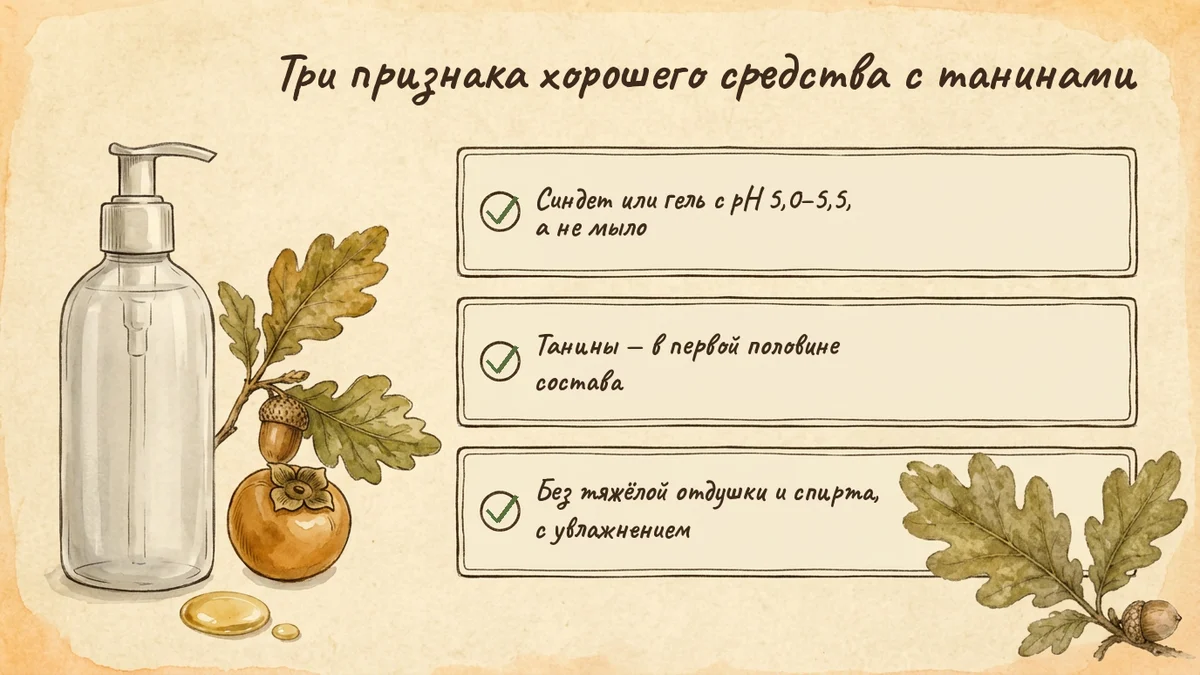
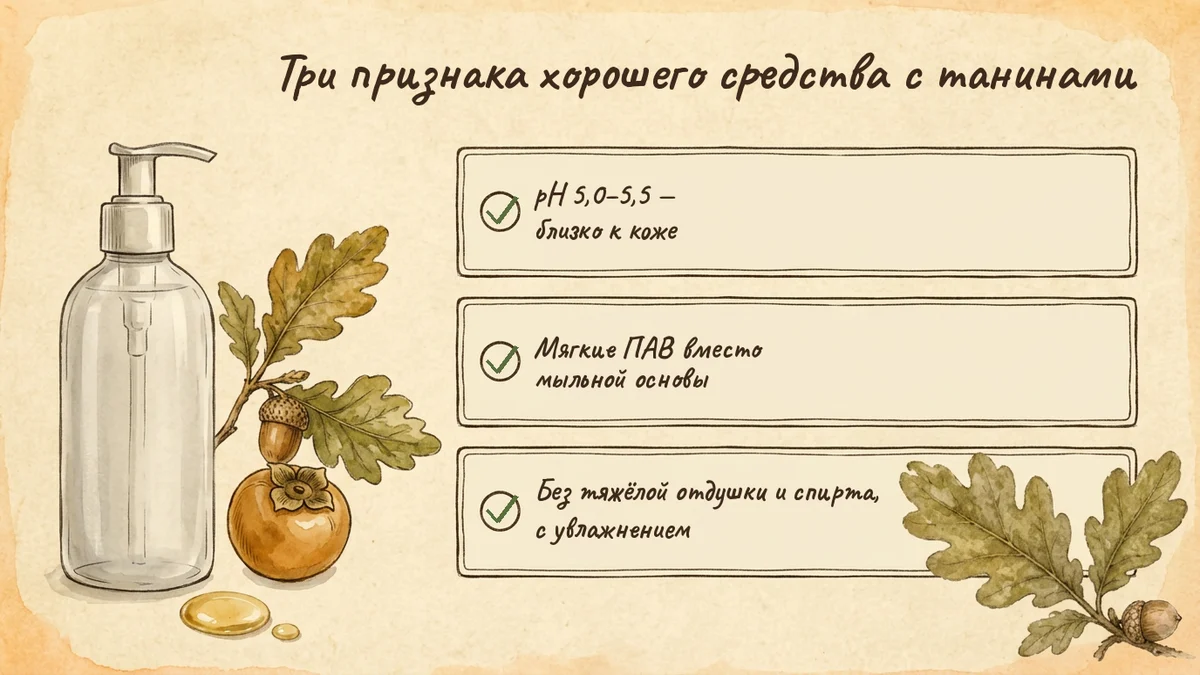
Картинка «Три признака»: pH 5,0–5,5; мягкие ПАВ вместо мыльной основы; без отдушки и спирта

Changed region(s): [[0.4317, 0.4978, 0.7092, 0.5911], [0.4317, 0.28, 0.7092, 0.3733]]

diff --git a/03-сайт/черновики/mylo-s-hurmoj/index.html b/03-сайт/черновики/mylo-s-hurmoj/index.html
@@ -264,7 +264,7 @@
 <li><strong>Танины в первой половине списка.</strong> Подойдёт не только хурма (<em>Diospyros Kaki Fruit Extract</em>). Танины коры дуба (<em>Quercus Robur Bark Extract</em>) относятся к тому же классу и давно применяются в медицине как вяжущее средство.</li>
 <li><strong>Без тяжёлой отдушки и спирта, с увлажняющими компонентами</strong> (<em>Glycerin, Panthenol, Allantoin</em>).</li>
 </ol>
-<div class="figure"><img src="/images/mylo-s-hurmoj-vybor.webp" alt="Иллюстрация: флакон мягкого геля, ветка дуба и хурма; три признака хорошего средства с танинами — синдет или гель с pH 5,0–5,5, а не мыло; танины в первой половине состава; без тяжёлой отдушки и спирта, с увлажнением" width="1200" height="675" loading="lazy"><figcaption>Три признака, которые можно проверить по составу на упаковке за минуту.</figcaption></div>
+<div class="figure"><img src="/images/mylo-s-hurmoj-vybor.webp" alt="Иллюстрация: флакон мягкого геля, ветка дуба и хурма; три признака хорошего средства с танинами — pH 5,0–5,5, близко к коже; мягкие ПАВ вместо мыльной основы; без тяжёлой отдушки и спирта, с увлажнением" width="1200" height="675" loading="lazy"><figcaption>Три признака, которые можно проверить по составу на упаковке за минуту.</figcaption></div>
 <p>Полный чек-лист этикетки, в том числе для дезодорантов и порошков, — в разборе <a href="https://zapahstarosti.ru/sredstva-ot-zapaha/">«Средство от запаха старости: как выбрать по составу»</a>.</p>
 
 <h2>Как пользоваться и проверить результат</h2>
